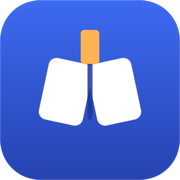
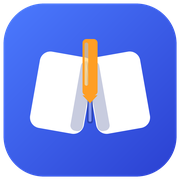
feat: 全新桌面版站点图标(渐变蓝底+打开的书+橙色书签)，16/32/48/180/192/512 多尺寸+SVG，favicon与manifest同步更新

diff --git a/index.html b/index.html
@@ -9,9 +9,11 @@
 <meta name="apple-mobile-web-app-status-bar-style" content="default">
 <title>阅读</title>
 <link rel="manifest" href="manifest.webmanifest">
-<link rel="icon" href="icons/icon-32.png" type="image/png">
+<link rel="icon" href="icons/icon.svg" type="image/svg+xml">
+<link rel="icon" href="icons/icon-32.png" sizes="32x32" type="image/png">
+<link rel="icon" href="icons/icon-16.png" sizes="16x16" type="image/png">
 <link rel="apple-touch-icon" href="icons/icon-180.png">
-<link rel="stylesheet" href="css/style.css?v=8">
+<link rel="stylesheet" href="css/style.css?v=9">
 </head>
 <body>
 <div id="app">
@@ -212,11 +214,11 @@
 </div>
 
 <script src="lib/jszip.min.js"></script>
-<script src="js/db.js?v=8"></script>
-<script src="js/parser.js?v=8"></script>
-<script src="js/engine.js?v=8"></script>
-<script src="js/library.js?v=8"></script>
-<script src="js/reader.js?v=8"></script>
-<script src="js/app.js?v=8"></script>
+<script src="js/db.js?v=9"></script>
+<script src="js/parser.js?v=9"></script>
+<script src="js/engine.js?v=9"></script>
+<script src="js/library.js?v=9"></script>
+<script src="js/reader.js?v=9"></script>
+<script src="js/app.js?v=9"></script>
 </body>
 </html>

diff --git a/sw.js b/sw.js
@@ -1,17 +1,17 @@
 /* Service Worker — 应用外壳缓存（离线可用） */
 'use strict';
 
-const CACHE = 'yuedu-v9';
+const CACHE = 'yuedu-v10';
 const SHELL = [
   './',
   './index.html',
-  './css/style.css?v=8',
-  './js/db.js?v=8',
-  './js/parser.js?v=8',
-  './js/engine.js?v=8',
-  './js/library.js?v=8',
-  './js/reader.js?v=8',
-  './js/app.js?v=8',
+  './css/style.css?v=9',
+  './js/db.js?v=9',
+  './js/parser.js?v=9',
+  './js/engine.js?v=9',
+  './js/library.js?v=9',
+  './js/reader.js?v=9',
+  './js/app.js?v=9',
   './lib/jszip.min.js',
   './manifest.webmanifest',
   './icons/icon-32.png',

diff --git a/gen-icons.py b/gen-icons.py
@@ -1,0 +1,93 @@
+#!/usr/bin/env python3
+"""生成阅读 App 桌面版站点图标（favicon + PWA）"""
+import math
+from PIL import Image, ImageDraw
+
+S = 2048  # 超采样画布
+C = S // 2
+
+# ---------- 背景：圆角方形渐变 ----------
+bg = Image.new('RGBA', (S, S), (0, 0, 0, 0))
+grad = Image.new('RGBA', (S, S))
+gd = grad.load()
+# 对角渐变：左上 #4C7BFF → 右下 #2A3FD0
+c1 = (0x4C, 0x7B, 0xFF); c2 = (0x2A, 0x3F, 0xD0)
+for y in range(S):
+    for x in range(S):
+        t = (x + y) / (2 * S)
+        gd[x, y] = tuple(round(a + (b - a) * t) for a, b in zip(c1, c2)) + (255,)
+mask = Image.new('L', (S, S), 0)
+ImageDraw.Draw(mask).rounded_rectangle([40, 40, S - 40, S - 40], radius=460, fill=255)
+bg.paste(grad, (0, 0), mask)
+
+img = bg
+d = ImageDraw.Draw(img)
+
+# ---------- 打开的书（两页白色书页） ----------
+page_w, page_h = 620, 880
+page_r = 120
+# 左页：绘制在透明层上再旋转
+def rotated_page(cx, cy, angle):
+    lay = Image.new('RGBA', (S, S), (0, 0, 0, 0))
+    ld = ImageDraw.Draw(lay)
+    x0, y0 = cx - page_w // 2, cy - page_h // 2
+    x1, y1 = cx + page_w // 2, cy + page_h // 2
+    ld.rounded_rectangle([x0, y0, x1, y1], radius=page_r, fill=(255, 255, 255, 255))
+    # 页面右侧阴影（中缝一侧略暗，增强立体感）
+    shade = Image.new('RGBA', (S, S), (0, 0, 0, 0))
+    sd = ImageDraw.Draw(shade)
+    if angle < 0:  # 左页 → 右缘阴影
+        sd.rounded_rectangle([x1 - 150, y0 + 40, x1 - 10, y1 - 40], radius=60, fill=(20, 40, 120, 60))
+    else:          # 右页 → 左缘阴影
+        sd.rounded_rectangle([x0 + 10, y0 + 40, x0 + 150, y1 - 40], radius=60, fill=(20, 40, 120, 60))
+    lay = Image.alpha_composite(lay, shade)
+    return lay.rotate(angle, center=(cx, cy), resample=Image.BICUBIC)
+
+# 书页中心略低于画布中心，书脊在中央
+page_cy = C + 30
+left = rotated_page(C - 320, page_cy, -10)
+right = rotated_page(C + 320, page_cy, 10)
+img = Image.alpha_composite(img, left)
+img = Image.alpha_composite(img, right)
+
+# ---------- 中缝（书脊内凹） ----------
+d = ImageDraw.Draw(img)
+spine_w = 64
+spine = Image.new('RGBA', (S, S), (0, 0, 0, 0))
+sd = ImageDraw.Draw(spine)
+# 深色窄条表示书脊
+sd.rounded_rectangle([C - spine_w // 2, page_cy - page_h // 2 + 90, C + spine_w // 2, page_cy + page_h // 2 - 90],
+                     radius=26, fill=(30, 45, 120, 120))
+# 书脊上的高光线
+sd.rounded_rectangle([C - spine_w // 4, page_cy - page_h // 2 + 110, C + spine_w // 4, page_cy + page_h // 2 - 110],
+                     radius=14, fill=(255, 255, 255, 90))
+img = Image.alpha_composite(img, spine)
+
+# ---------- 经典书签（顶部橙色，底部收尖） ----------
+bm_top = page_cy - page_h // 2 - 170   # 露出书页顶部
+bm_w = 170
+bm_bottom = page_cy - page_h // 2 + 560
+bm = Image.new('RGBA', (S, S), (0, 0, 0, 0))
+bd = ImageDraw.Draw(bm)
+# 书签主体：矩形 + 底部三角
+bd.rounded_rectangle([C - bm_w // 2, bm_top, C + bm_w // 2, bm_bottom - 90], radius=44, fill=(255, 158, 36, 255))
+bd.polygon([(C - bm_w // 2, bm_bottom - 90), (C + bm_w // 2, bm_bottom - 90), (C, bm_bottom)], fill=(255, 158, 36, 255))
+# 书签高光
+bd.rounded_rectangle([C - bm_w // 2 + 24, bm_top + 40, C - bm_w // 2 + 64, bm_bottom - 200], radius=20, fill=(255, 210, 120, 180))
+img = Image.alpha_composite(img, bm)
+
+# ---------- 输出各尺寸 ----------
+def save(size, path):
+    out = img.resize((size, size), Image.LANCZOS)
+    out.save(path, 'PNG')
+    print(f'{path}  {size}x{size}')
+
+import os
+os.makedirs('icons', exist_ok=True)
+save(512, 'icons/icon-512.png')
+save(192, 'icons/icon-192.png')
+save(180, 'icons/icon-180.png')
+save(48, 'icons/icon-48.png')
+save(32, 'icons/icon-32.png')
+save(16, 'icons/icon-16.png')
+print('done')
